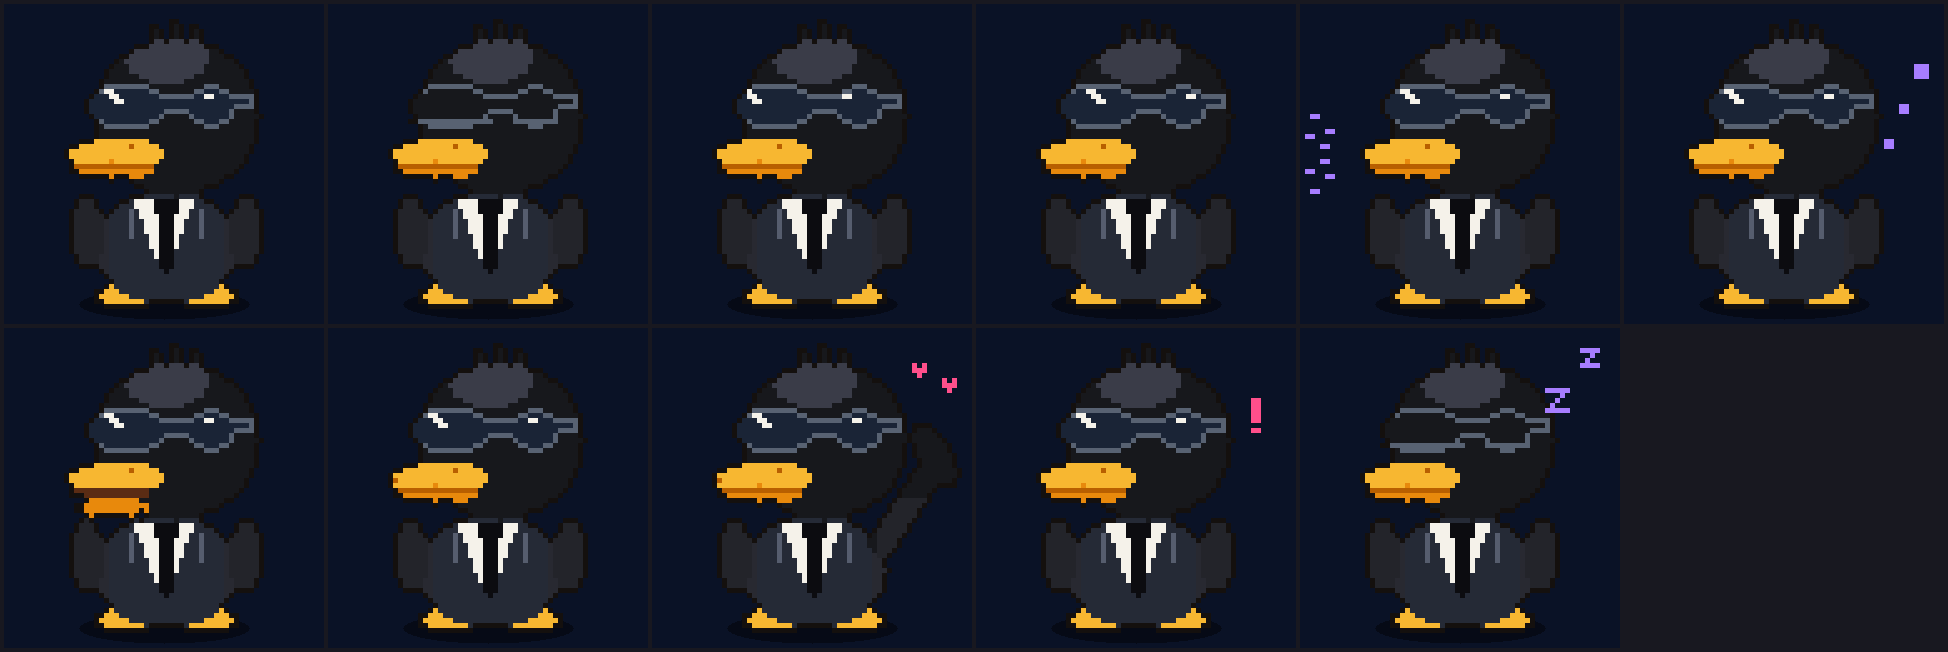
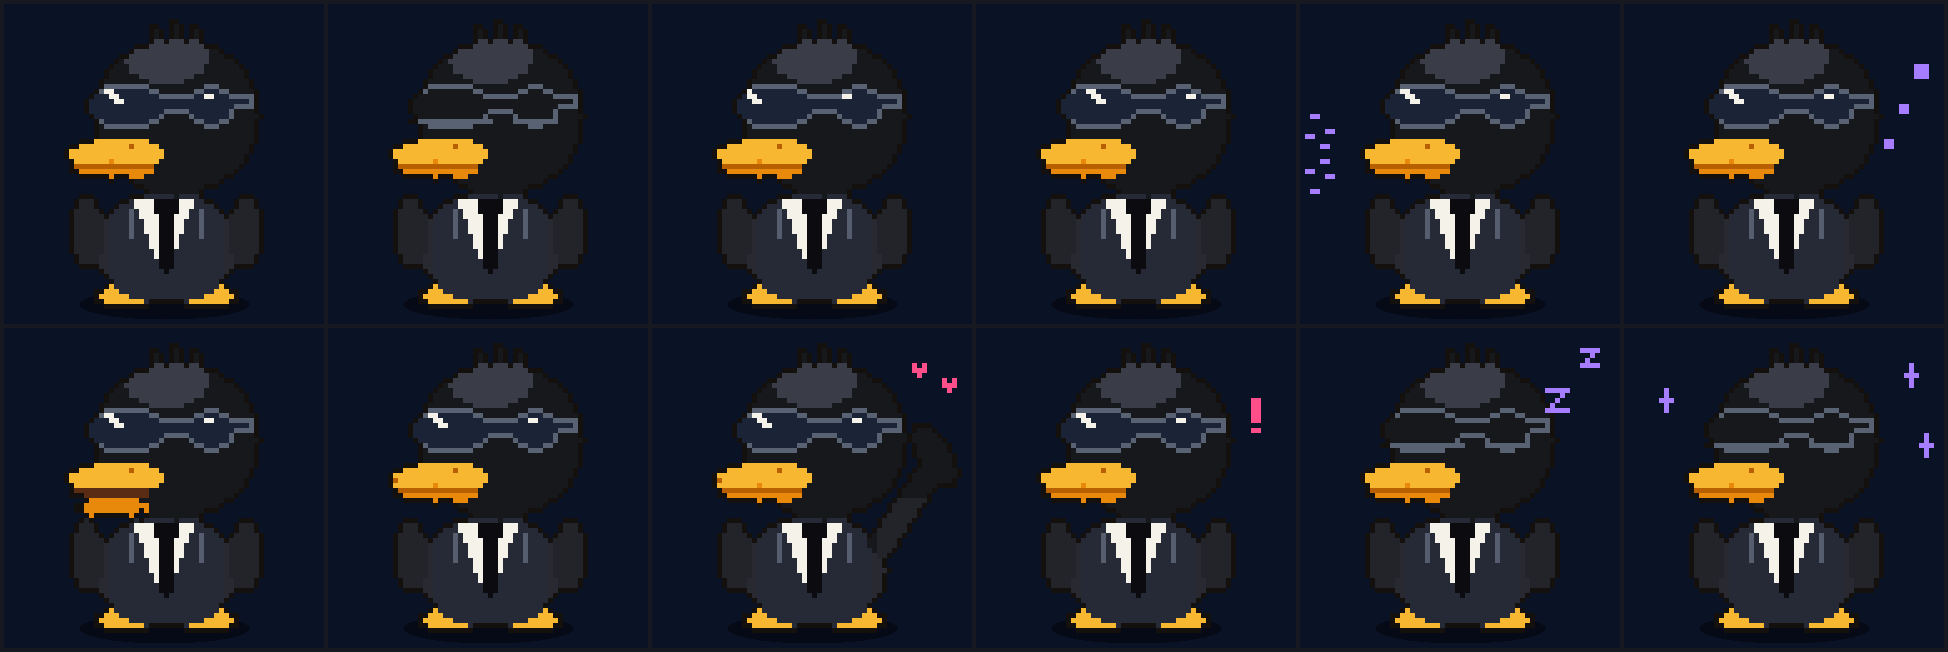
Juno boot pose wired to MUSE_MODE_BOOT: new JUNO_BOOT sprite (lids shut + wake-sparks), renderer rise-in over 0.6s, lids open at 0.9s, aura fades in over 1.4s (Jollybot boot beats); previews + watch200 sheet regenerated with 12 poses

diff --git a/avatar/juno_sprites.h b/avatar/juno_sprites.h
@@ -672,6 +672,73 @@ static const char *const JUNO_ERROR[64] = {
     "................................................................"
 };
 
+static const char *const JUNO_BOOT[64] = {
+    "................................................................",
+    "................................................................",
+    "................................................................",
+    ".................................KK.............................",
+    ".............................KK..KBK.KK.........................",
+    ".............................KBK.KBK.KBK........................",
+    ".............................KBK.KBK.KBK........................",
+    ".............................KHHKHHHKHHK.................A......",
+    "..........................KKKHHHHHHHHHHHKKK..............A......",
+    ".........................KHHHHHHHHHHHHHHHBBK............AAA.....",
+    ".......................KKHHHHHHHHHHHHHHHHBBBKK...........A......",
+    "......................KBHHHHHHHHHHHHHHHHHBBBBBK..........A......",
+    "........A............KBBBHHHHHHHHHHHHHHHBBBBBBBK................",
+    "........A...........KBBBBHHHHHHHHHHHHHHHBBBBBBBBK...............",
+    ".......AAA..........KBBBBBBHHHHHHHHHHHBBBBBBBBBBK...............",
+    "........A..........KBBBBBBBBBHHHHHHHBBBBBBBBBBBBBK..............",
+    "........A..........KgggggggggBBBBBBBBBBBgggBBBBBBK..............",
+    "..................KgBBBBBBBBBggBBBBBBBggBBBggBBBBBK.............",
+    ".................KBBBBBBBBBBBBBgggggggBBBBBBBgggggK.............",
+    "................KBBBBBBBBBBBBBBBBBBBBBBBBBBBBBBBBgK.............",
+    "................KBBBBBBBBBBBBBBBBBBBBBBBBBBBBBggggK.............",
+    "................KBBBBBBBBBBBBBBBgggggBBBBBBBBgBBBBK.........A...",
+    ".................KBBBBBBBBBBBBBgBBBBBgBBBBBBBgBBBBBK........A...",
+    "................KKgggggggggggggggBBBBgggggggggBBBBK........AAA..",
+    "..................KBgggggggggBBBBBBBBBBBgggBBBBBBBK.........A...",
+    "..................KBBBBBBBBBBBBBBBBBBBBBBBBBBBBBBBK.........A...",
+    "..................KBBBBBBBBBBBBBBBBBBBBBBBBBBBBBBBK.............",
+    "...............KKKYYYYYYYYYYYBBBBBBBBBBBBBBBBBBBBBK.............",
+    ".............KKYYYYYYYYYYoYYYYYBBBBBBBBBBBBBBBBBBK..............",
+    "............KYYYYYYYYYYYYYYYYYYYBBBBBBBBBBBBBBBBBK..............",
+    "............KYYYYYYYYYYYYYYYYYYYBBBBBBBBBBBBBBBBK...............",
+    ".............KYYYYYYYOYYYYYYYYYBBBBBBBBBBBBBBBBBK...............",
+    ".............KooooooooooooooooBBBBBBBBBBBBBBBBBK................",
+    ".............KKOOOOOOOOOOOOOOOBBBBBBBBBBBBBBBBK.................",
+    "...............KKKKKKOKKKOOOBBBBBBBBBBBBBBBBKK..................",
+    ".....................K...KBBBBBBBBBBBBBBBBBK....................",
+    "..........................KKBBBBBBBBBBBBKKK.....................",
+    "............................KBBBBBBBBBBK........................",
+    "...............KKK.......KKKSSSSSSBSSSSK.......KKK..............",
+    "..............KbbbK....KKSWWWWTTTTTWWWSSKK....KbbbK.............",
+    "..............KbbbK...KSSSWWWWTTTTTWWWSSSSK...KbbbK.............",
+    ".............KbbbbbK.KSSSLSWWWTTTTTWWSSLSSSK.KbbbbbK............",
+    ".............KbbbbbbKSSSSLSWWWWTTTWWWSSLSSSSKbbbbbbK............",
+    ".............KbbbbbbsSSSSLSSWWWTTTWWSSSLSSSSsbbbbbbK............",
+    ".............KbbbbbbsSSSSLSSWWWTTTWWSSSLSSSSsbbbbbbK............",
+    ".............KbbbbbbsSSSSLSSWWWTTTWWSSSLSSSSsbbbbbbK............",
+    ".............KbbbbbbsSSSSLSSSWWTTTWSSSSLSSSSsbbbbbbK............",
+    ".............KbbbbbbsSSSSSSSSWWTTTWSSSSSSSSSsbbbbbbK............",
+    ".............KbbbbbbsSSSSSSSSWWTTTWSSSSSSSSSsbbbbbbK............",
+    ".............KbbbbbbsSSSSSSSSSWTTTSSSSSSSSSSsbbbbbbK............",
+    "..............KbbbbssSSSSSSSSSWTTTSSSSSSSSSSssbbbbK.............",
+    "..............KbbbbssSSSSSSSSSSTTTSSSSSSSSSSssbbbbK.............",
+    "...............KKKKssSSSSSSSSSSTTTSSSSSSSSSSssKKKK..............",
+    "...................KsSSSSSSSSSSSTSSSSSSSSSSSsK..................",
+    "....................KSSSSSSSSSSSSSSSSSSSSSSSK...................",
+    ".....................KSSSSSSSSSSSSSSSSSSSSSK....................",
+    "....................KYSSSSSSSSSSSSSSSSSSSSSYK...................",
+    "..................KKYYYSSSSSSSSSSSSSSSSSSSYYYKK.................",
+    "..................KYYYYYYSSSSSSSSSSSSSSSYYYYYYK.................",
+    "..................KKYYYYYYYYSKKKKKKKSYYYYYYYYKK.................",
+    "....................KKKKKKKKK.......KKKKKKKKK...................",
+    "................................................................",
+    "................................................................",
+    "................................................................"
+};
+
 static const char *const JUNO_SLEEP[64] = {
     "................................................................",
     "................................................................",

diff --git a/avatar/juno_pixel.c b/avatar/juno_pixel.c
@@ -136,17 +136,24 @@ static void draw_shadow(void)
     }
 }
 
+static float clampf01(float v)
+{
+    return v < 0.0f ? 0.0f : v > 1.0f ? 1.0f : v;
+}
+
 static void draw_aura(const muse_pose_t *p)
 {
     uint32_t acc = juno_pixel_accent(p->mode);
     s_pal[P_AURA] = to565(acc);
     float pulse = 0.85f + 0.15f * sinf(p->t * 1.7f);
+    /* Boot: the aura fades in over 1.4 s, like Jollybot's. */
+    float bootf = p->mode == MUSE_MODE_BOOT ? clampf01(p->mode_t / 1.4f) : 1.0f;
     for (int y = 0; y < H; y++) {
         for (int x = 0; x < W; x++) {
             float d = ((x - 32.0f) / 25.0f) * ((x - 32.0f) / 25.0f)
                     + ((y - 30.0f) / 27.0f) * ((y - 30.0f) / 27.0f);
             if (d < 1.0f && s_mask[y * W + x] == 0) {
-                float a = (1.0f - d) * 90.0f * pulse;
+                float a = (1.0f - d) * 90.0f * pulse * bootf;
                 s_fb[y * W + x] = P_AURA;
                 s_mask[y * W + x] = (uint8_t)a;
             }
@@ -193,8 +200,13 @@ void juno_pixel_render(const muse_pose_t *pose)
     draw_shadow();
 
     const char *const *map = JUNO_IDLE;
+    bool boot = pose->mode == MUSE_MODE_BOOT;
     if (pose->mode == MUSE_MODE_OFF) {
         map = JUNO_SLEEP;
+    } else if (boot) {
+        /* Waking: lids stay shut until 0.9 s, then open (Jollybot's
+         * boot beats) - boot overrides blink/happy while it lasts. */
+        map = pose->mode_t < 0.9f ? JUNO_BOOT : JUNO_IDLE;
     } else if (blink) {
         map = JUNO_BLINK;
     } else if (pose->mode == MUSE_MODE_ERROR) {
@@ -217,6 +229,13 @@ void juno_pixel_render(const muse_pose_t *pose)
     }
     /* Breath: a slow 1 px bob, down on the exhale. */
     int bob = (sinf(pose->t * 1.8f) > 0.55f) ? 1 : 0;
+    if (boot) {
+        /* Pop-in: start sunk 5 px and rise to rest over 0.6 s (the
+         * sprite-space analog of Jollybot's boot squash), then the
+         * normal breath bob takes over. */
+        float pop = clampf01(pose->mode_t / 0.6f);
+        bob = pop < 1.0f ? (int)((1.0f - pop) * 5.0f + 0.5f) : bob;
+    }
     stamp(map, bob);
 }
 

diff --git a/tools/make_juno.py b/tools/make_juno.py
@@ -288,6 +288,20 @@ frames["error"] = decor([r[:] for r in _idle], [
     (55, 16, "R"), (56, 16, "R"), (55, 17, "R"), (56, 17, "R"),
     (55, 18, "R"), (56, 18, "R"), (55, 20, "R"), (56, 20, "R"),
 ])
+# boot: lids still shut (she is waking, not sleeping - no Zzz) with
+# accent wake-sparks around the head. The renderer owns the timing
+# (rise-in over 0.6s, lids open at 0.9s - same beats as Jollybot's
+# MUSE_MODE_BOOT in muse_pixel.c); this frame is the shut-eye half.
+def _spark(g, cx, cy):
+    for dx, dy in ((0, -2), (0, -1), (0, 0), (0, 1), (0, 2),
+                   (-1, 0), (1, 0)):
+        px(g, cx + dx, cy + dy, "A")
+
+_b = [r[:] for r in _blink]
+_spark(_b, 8, 14)
+_spark(_b, 57, 9)
+_spark(_b, 60, 23)
+frames["boot"] = _b
 # sleep: lids down + Zzz drifting up
 _s = [r[:] for r in _blink]
 for cx, cy, s in ((49, 12, 5), (56, 4, 4)):
@@ -299,7 +313,7 @@ for cx, cy, s in ((49, 12, 5), (56, 4, 4)):
 frames["sleep"] = _s
 
 ORDER = ["idle", "blink", "lookl", "lookr", "listen", "think",
-         "talk", "happy", "wave", "error", "sleep"]
+         "talk", "happy", "wave", "error", "sleep", "boot"]
 
 # contact sheet, two rows
 cols = 6
@@ -328,7 +342,7 @@ seq[0].save("/home/hatch/workspace/juno-design/juno_idle.gif", save_all=True,
             append_images=seq[1:], duration=110, loop=0)
 
 # animation revue: every pose in sequence
-revue_names = ["idle", "idle", "blink", "lookl", "lookr", "listen",
+revue_names = ["boot", "boot", "idle", "idle", "blink", "lookl", "lookr", "listen",
                "think", "talk", "talk", "happy", "wave", "wave",
                "error", "sleep", "sleep"]
 revue = [render(frames[n], 5, bg=(10, 18, 38)).convert("RGB") for n in revue_names]

diff --git a/README.md b/README.md
@@ -55,12 +55,15 @@ Watch integration (a third face in the muse-gadget-206 avatar
 picker, next to the Juno GIF and the pixel Muse) is future work.
 
 Design v2 (owner feedback, same night): the head is in 3/4 profile -
-front-on, the bill stared the viewer down and read weird. Eleven
+front-on, the bill stared the viewer down and read weird. Twelve
 poses now, mirroring Jollybot's animation range: idle, blink,
 look-left, look-right (idle gaze wander), listen (sound arcs),
 think (thought dots), talk, happy, wave (raised wing + hearts,
-the pet reaction), error (alert mark), sleep (Zzz). The renderer
-picks them from the same pose struct Jollybot uses.
+the pet reaction), error (alert mark), sleep (Zzz), and boot -
+wired to MUSE_MODE_BOOT with Jollybot's beats (rise-in over
+0.6 s, lids shut until 0.9 s, aura fading in over 1.4 s; the
+boot sprite is the shut-lid Juno ringed by wake-sparks). The
+renderer picks them from the same pose struct Jollybot uses.
 
 ## Collection (started 2026-10-14)
 
